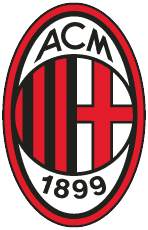
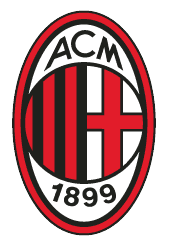
commit

diff --git a/codigo-fonte/escalação-visualizar/escalacao-visualizar.html b/codigo-fonte/escalação-visualizar/escalacao-visualizar.html
@@ -47,11 +47,11 @@
 
                 <div class="milan">
                     <div class="milan-esquerdo">
-                        <img src="../imagens/fundo-esquerdo-milan.png" alt="">
+                        <img src="../imagens/fundo-esquerdo-inter.png" alt="">
                     </div>
                     <div class="milan-direito">
                         <div class="milan-direito-superior">
-                            <img src="../imagens/milan2.png" alt="">
+                            <img src="../imagens/inter.png" alt="">
                             <p>ESCALAÇÃO</p>
                         </div>
                         <div class="milan-direito-inferior">

diff --git a/codigo-fonte/escalação-visualizar/escalacao-visualizar.css b/codigo-fonte/escalação-visualizar/escalacao-visualizar.css
@@ -61,7 +61,7 @@ body {
     display: flex;
 }
 .milan-direito-superior img {
-    margin: 5px 5px 0px 5px;
+    margin-top: 5px;
     height: 70px;
 
 }
@@ -71,7 +71,7 @@ body {
     color: white;
     font-family: roboto;
     font-weight: bold;
-    margin: 30px 0px 0px 10px;
+    margin: 30px 0px 0px 3px;
 }
 
 .milan-direito-inferior {
